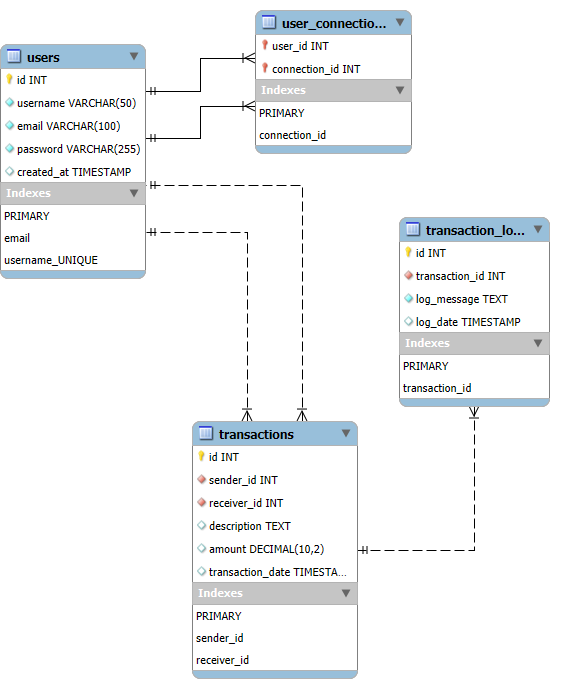
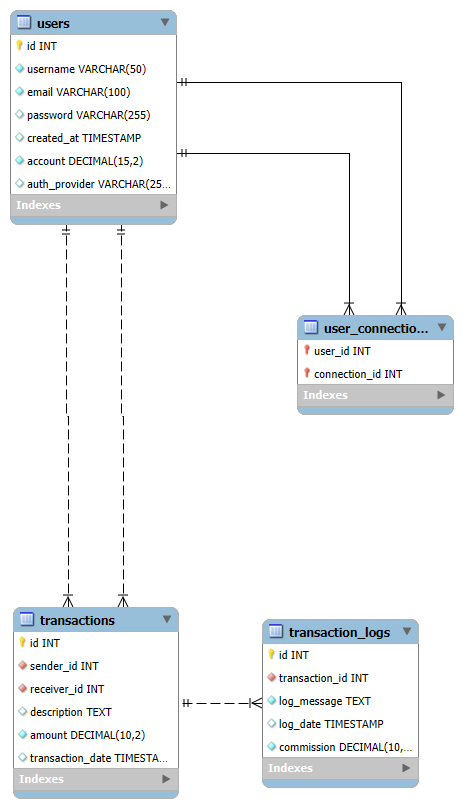
Ajout du nouveau MPD, ainsi que du script sql au README.md

Changed region(s): [[0.0302, 0.2747, 0.9978, 1.0], [0.0, 0.0, 0.7559, 0.4273], [0.8467, 0.0916, 0.8769, 0.1221]]

diff --git a/README.md b/README.md
@@ -7,116 +7,108 @@ Cette application est un système de gestion bancaire simple permettant de gére
 # SQL Script
 -- MySQL Script generated by MySQL Workbench—Sat Jul 19 13:39:13 2025—Model: New Model Version: 1.0—MySQL Workbench Forward Engineering
 
-SET @OLD_UNIQUE_CHECKS=@@UNIQUE_CHECKS, UNIQUE_CHECKS=0;
-SET @OLD_FOREIGN_KEY_CHECKS=@@FOREIGN_KEY_CHECKS, FOREIGN_KEY_CHECKS=0;
-SET @OLD_SQL_MODE=@@SQL_MODE, SQL_MODE='ONLY_FULL_GROUP_BY,STRICT_TRANS_TABLES,NO_ZERO_IN_DATE,NO_ZERO_DATE,ERROR_FOR_DIVISION_BY_ZERO,NO_ENGINE_SUBSTITUTION';
+-- MySQL dump 10.13  Distrib 8.0.42, for Win64 (x86_64)
+--
+-- Host: localhost    Database: pay_my_buddy
+-- ------------------------------------------------------
+-- Server version	8.0.42
 
--- -----------------------------------------------------
--- Schema mydb
--- -----------------------------------------------------
--- -----------------------------------------------------
--- Schema pay_my_buddy
--- -----------------------------------------------------
+/*!40101 SET @OLD_CHARACTER_SET_CLIENT=@@CHARACTER_SET_CLIENT */;
+/*!40101 SET @OLD_CHARACTER_SET_RESULTS=@@CHARACTER_SET_RESULTS */;
+/*!40101 SET @OLD_COLLATION_CONNECTION=@@COLLATION_CONNECTION */;
+/*!50503 SET NAMES utf8 */;
+/*!40103 SET @OLD_TIME_ZONE=@@TIME_ZONE */;
+/*!40103 SET TIME_ZONE='+00:00' */;
+/*!40014 SET @OLD_UNIQUE_CHECKS=@@UNIQUE_CHECKS, UNIQUE_CHECKS=0 */;
+/*!40014 SET @OLD_FOREIGN_KEY_CHECKS=@@FOREIGN_KEY_CHECKS, FOREIGN_KEY_CHECKS=0 */;
+/*!40101 SET @OLD_SQL_MODE=@@SQL_MODE, SQL_MODE='NO_AUTO_VALUE_ON_ZERO' */;
+/*!40111 SET @OLD_SQL_NOTES=@@SQL_NOTES, SQL_NOTES=0 */;
 
--- -----------------------------------------------------
--- Schema pay_my_buddy
--- -----------------------------------------------------
-CREATE SCHEMA IF NOT EXISTS `pay_my_buddy` DEFAULT CHARACTER SET utf8mb4 COLLATE utf8mb4_0900_ai_ci;
-USE `pay_my_buddy` ;
+--
+-- Table structure for table `transaction_logs`
+--
 
--- -----------------------------------------------------
--- Table `pay_my_buddy`.`users`
--- -----------------------------------------------------
-DROP TABLE IF EXISTS `pay_my_buddy`.`users` ;
-
-CREATE TABLE IF NOT EXISTS `pay_my_buddy`.`users` (
-`id` INT UNSIGNED NOT NULL AUTO_INCREMENT,
-`username` VARCHAR(50) NOT NULL UNIQUE,
-`email` VARCHAR(100) NOT NULL UNIQUE,
-`password` VARCHAR(255) NOT NULL,
-`created_at` TIMESTAMP NULL DEFAULT CURRENT_TIMESTAMP,
+DROP TABLE IF EXISTS `transaction_logs`;
+/*!40101 SET @saved_cs_client     = @@character_set_client */;
+/*!50503 SET character_set_client = utf8mb4 */;
+CREATE TABLE `transaction_logs` (
+`id` int unsigned NOT NULL AUTO_INCREMENT,
+`transaction_id` int unsigned NOT NULL,
+`log_message` text NOT NULL,
+`log_date` timestamp NULL DEFAULT CURRENT_TIMESTAMP,
+`commission` decimal(10,2) NOT NULL DEFAULT '0.00',
 PRIMARY KEY (`id`),
-UNIQUE INDEX `email` (`email` ASC) VISIBLE)
-ENGINE = InnoDB
-AUTO_INCREMENT = 4
-DEFAULT CHARACTER SET = utf8mb4
-COLLATE = utf8mb4_0900_ai_ci;
+KEY `transaction_id` (`transaction_id`),
+CONSTRAINT `transaction_logs_ibfk_1` FOREIGN KEY (`transaction_id`) REFERENCES `transactions` (`id`) ON DELETE CASCADE
+) ENGINE=InnoDB AUTO_INCREMENT=4 DEFAULT CHARSET=utf8mb4 COLLATE=utf8mb4_0900_ai_ci;
+/*!40101 SET character_set_client = @saved_cs_client */;
 
+--
+-- Table structure for table `transactions`
+--
 
--- -----------------------------------------------------
--- Table `pay_my_buddy`.`transactions`
--- -----------------------------------------------------
-DROP TABLE IF EXISTS `pay_my_buddy`.`transactions` ;
-
-CREATE TABLE IF NOT EXISTS `pay_my_buddy`.`transactions` (
-`id` INT UNSIGNED NOT NULL AUTO_INCREMENT,
-`sender_id` INT UNSIGNED NOT NULL,
-`receiver_id` INT UNSIGNED NOT NULL,
-`description` TEXT NULL DEFAULT NULL,
-`amount` DECIMAL(10,2) NOT NULL CHECK (amount > 0),
-`transaction_date` TIMESTAMP NULL DEFAULT CURRENT_TIMESTAMP,
+DROP TABLE IF EXISTS `transactions`;
+/*!40101 SET @saved_cs_client     = @@character_set_client */;
+/*!50503 SET character_set_client = utf8mb4 */;
+CREATE TABLE `transactions` (
+`id` int unsigned NOT NULL AUTO_INCREMENT,
+`sender_id` int unsigned NOT NULL,
+`receiver_id` int unsigned NOT NULL,
+`description` text,
+`amount` decimal(10,2) NOT NULL,
+`transaction_date` timestamp NULL DEFAULT CURRENT_TIMESTAMP,
 PRIMARY KEY (`id`),
-INDEX `sender_id` (`sender_id` ASC) VISIBLE,
-INDEX `receiver_id` (`receiver_id` ASC) VISIBLE,
-CONSTRAINT `transactions_ibfk_1`
-FOREIGN KEY (`sender_id`)
-REFERENCES `pay_my_buddy`.`users` (`id`)
-ON DELETE CASCADE,
-CONSTRAINT `transactions_ibfk_2`
-FOREIGN KEY (`receiver_id`)
-REFERENCES `pay_my_buddy`.`users` (`id`)
-ON DELETE CASCADE)
-ENGINE = InnoDB
-AUTO_INCREMENT = 4
-DEFAULT CHARACTER SET = utf8mb4
-COLLATE = utf8mb4_0900_ai_ci;
+KEY `sender_id` (`sender_id`),
+KEY `receiver_id` (`receiver_id`),
+CONSTRAINT `transactions_ibfk_1` FOREIGN KEY (`sender_id`) REFERENCES `users` (`id`) ON DELETE CASCADE,
+CONSTRAINT `transactions_ibfk_2` FOREIGN KEY (`receiver_id`) REFERENCES `users` (`id`) ON DELETE CASCADE,
+CONSTRAINT `chk_amount_positive` CHECK ((`amount` > 0)),
+CONSTRAINT `transactions_chk_1` CHECK ((`amount` > 0))
+) ENGINE=InnoDB AUTO_INCREMENT=5 DEFAULT CHARSET=utf8mb4 COLLATE=utf8mb4_0900_ai_ci;
+/*!40101 SET character_set_client = @saved_cs_client */;
 
+--
+-- Table structure for table `user_connections`
+--
 
--- -----------------------------------------------------
--- Table `pay_my_buddy`.`transaction_logs`
--- -----------------------------------------------------
-DROP TABLE IF EXISTS `pay_my_buddy`.`transaction_logs` ;
+DROP TABLE IF EXISTS `user_connections`;
+/*!40101 SET @saved_cs_client     = @@character_set_client */;
+/*!50503 SET character_set_client = utf8mb4 */;
+CREATE TABLE `user_connections` (
+`user_id` int unsigned NOT NULL,
+`connection_id` int unsigned NOT NULL,
+PRIMARY KEY (`user_id`,`connection_id`),
+KEY `connection_id` (`connection_id`),
+CONSTRAINT `user_connections_ibfk_1` FOREIGN KEY (`user_id`) REFERENCES `users` (`id`) ON DELETE CASCADE,
+CONSTRAINT `user_connections_ibfk_2` FOREIGN KEY (`connection_id`) REFERENCES `users` (`id`) ON DELETE CASCADE
+) ENGINE=InnoDB DEFAULT CHARSET=utf8mb4 COLLATE=utf8mb4_0900_ai_ci;
+/*!40101 SET character_set_client = @saved_cs_client */;
 
-CREATE TABLE IF NOT EXISTS `pay_my_buddy`.`transaction_logs` (
-`id` INT UNSIGNED NOT NULL AUTO_INCREMENT,
-`transaction_id` INT UNSIGNED NOT NULL,
-`log_message` TEXT NOT NULL,
-`log_date` TIMESTAMP NULL DEFAULT CURRENT_TIMESTAMP,
+--
+-- Table structure for table `users`
+--
+
+DROP TABLE IF EXISTS `users`;
+/*!40101 SET @saved_cs_client     = @@character_set_client */;
+/*!50503 SET character_set_client = utf8mb4 */;
+CREATE TABLE `users` (
+`id` int unsigned NOT NULL AUTO_INCREMENT,
+`username` varchar(50) NOT NULL,
+`email` varchar(100) NOT NULL,
+`password` varchar(255) DEFAULT NULL,
+`created_at` timestamp NULL DEFAULT CURRENT_TIMESTAMP,
+`account` decimal(15,2) NOT NULL DEFAULT '0.00',
+`auth_provider` varchar(255) DEFAULT 'LOCAL',
 PRIMARY KEY (`id`),
-INDEX `transaction_id` (`transaction_id` ASC) VISIBLE,
-CONSTRAINT `transaction_logs_ibfk_1`
-FOREIGN KEY (`transaction_id`)
-REFERENCES `pay_my_buddy`.`transactions` (`id`)
-ON DELETE CASCADE)
-ENGINE = InnoDB
-AUTO_INCREMENT = 4
-DEFAULT CHARACTER SET = utf8mb4
-COLLATE = utf8mb4_0900_ai_ci;
+UNIQUE KEY `email` (`email`)
+) ENGINE=InnoDB AUTO_INCREMENT=9 DEFAULT CHARSET=utf8mb4 COLLATE=utf8mb4_0900_ai_ci;
+/*!40101 SET character_set_client = @saved_cs_client */;
+/*!40103 SET TIME_ZONE=@OLD_TIME_ZONE */;
 
-
--- -----------------------------------------------------
--- Table `pay_my_buddy`.`user_connections`
--- -----------------------------------------------------
-DROP TABLE IF EXISTS `pay_my_buddy`.`user_connections` ;
-
-CREATE TABLE IF NOT EXISTS `pay_my_buddy`.`user_connections` (
-`user_id` INT UNSIGNED NOT NULL,
-`connection_id` INT UNSIGNED NOT NULL,
-PRIMARY KEY (`user_id`, `connection_id`),
-INDEX `connection_id` (`connection_id` ASC) VISIBLE,
-CONSTRAINT `user_connections_ibfk_1`
-FOREIGN KEY (`user_id`)
-REFERENCES `pay_my_buddy`.`users` (`id`)
-ON DELETE CASCADE,
-CONSTRAINT `user_connections_ibfk_2`
-FOREIGN KEY (`connection_id`)
-REFERENCES `pay_my_buddy`.`users` (`id`)
-ON DELETE CASCADE)
-ENGINE = InnoDB
-DEFAULT CHARACTER SET = utf8mb4
-COLLATE = utf8mb4_0900_ai_ci;
-
-
-SET SQL_MODE=@OLD_SQL_MODE;
-SET FOREIGN_KEY_CHECKS=@OLD_FOREIGN_KEY_CHECKS;
-SET UNIQUE_CHECKS=@OLD_UNIQUE_CHECKS;
+/*!40101 SET SQL_MODE=@OLD_SQL_MODE */;
+/*!40014 SET FOREIGN_KEY_CHECKS=@OLD_FOREIGN_KEY_CHECKS */;
+/*!40014 SET UNIQUE_CHECKS=@OLD_UNIQUE_CHECKS */;
+/*!40101 SET CHARACTER_SET_CLIENT=@OLD_CHARACTER_SET_CLIENT */;
+/*!40101 SET CHARACTER_SET_RESULTS=@OLD_CHARACTER_SET_RESULTS */;
+/*!40101 SET COLLATION_CONNECTION=@OLD_COLLATION_CONNECTION */;
+/*!40111 SET SQL_NOTES=@OLD_SQL_NOTES */;
